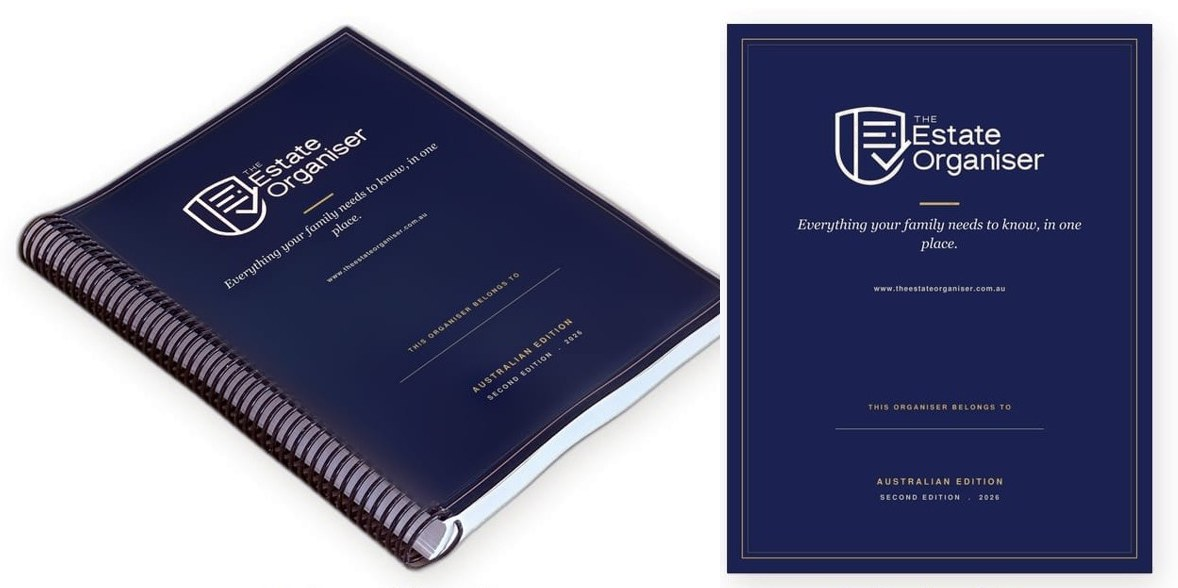
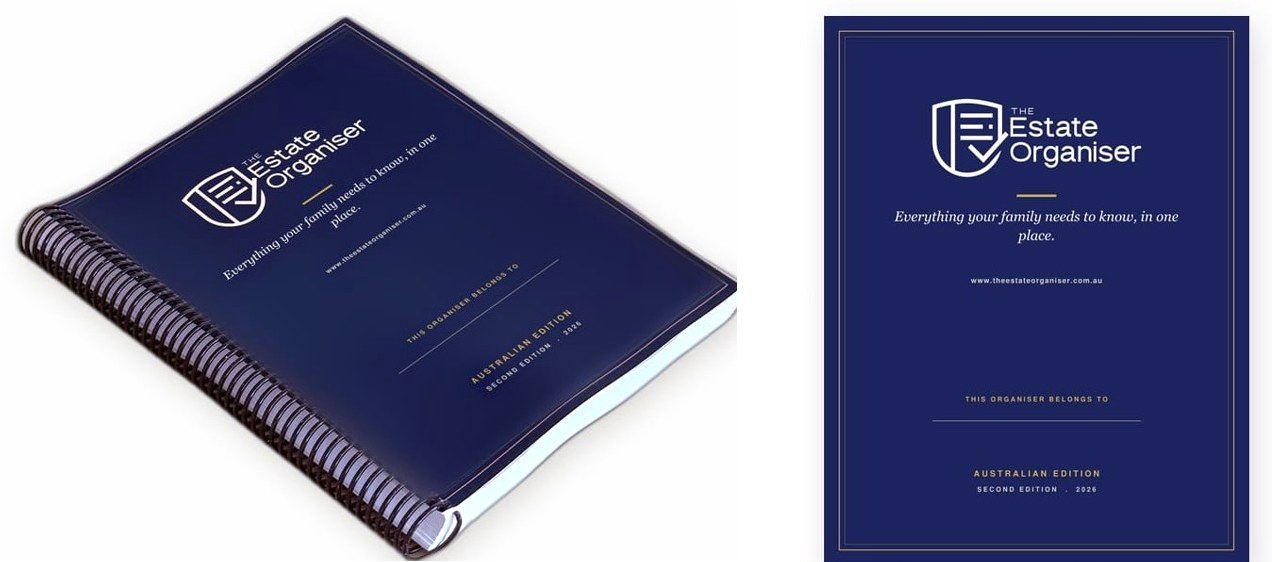
Toolkit: book pictures with a proper gap (no clipped corner); clearer digital and privacy points

diff --git a/toolkit/index.html b/toolkit/index.html
@@ -187,13 +187,13 @@
 <div class="kit-offer" id="kitoffer">
   <p class="kit-eyebrow">Since you're here, one gentle next step</p>
   <h3 class="kit-h">The book that does the whole job</h3>
-  <img class="kit-book" src="/assets/printed-digital-white.jpg" alt="The Estate Organiser, printed book and digital edition" width="1180" height="588" loading="lazy">
+  <img class="kit-book" src="/assets/printed-digital-white.jpg?v=2" alt="The Estate Organiser, printed book and digital edition" width="1272" height="562" loading="lazy">
   <p class="kit-sub">The toolkit helps the person who steps up. The Estate Organiser is the book you fill in now, so they never have to guess: every account, policy, password location and wish, in one place your family can actually find.</p>
   <ul class="kit-list">
     <li>Printed and digital options available.</li>
     <li>Printed: kept safe at home and filled in by hand.</li>
-    <li>Digital: yours to keep, delivered instantly.</li>
-    <li>We never store anything you write in it.</li>
+    <li>Digital: delivered instantly.</li>
+    <li>We never store anything you write in it. It lives on your computer as a PDF file, not on our servers.</li>
   </ul>
   <a class="btn btn-lg kit-go" href="/the-estate-organiser/">See The Estate Organiser</a>
 </div>
@@ -242,7 +242,7 @@
       <hr class="rule">
       <div class="tm-row"><div class="tm-card"><div class="tm-mark">&ldquo;</div><p class="tm-q">All the information in my head right now will not be available to the unlucky sod who has to work out my estate. Your Executor Toolkit can be my way of helping them out.</p><div class="tm-name">Greg</div></div><div class="tm-card"><div class="tm-mark">&ldquo;</div><p class="tm-q">At least with this tool kit a nominated executor won't be floundering along blindly.</p><div class="tm-name">Jennie, Townsville QLD, 71</div></div><div class="tm-card"><div class="tm-mark">&ldquo;</div><p class="tm-q">Practical, with very helpful tips at the beginning of each section. A comprehensive guide to a sensitive but important life issue.</p><div class="tm-name">Pam, 79</div></div><div class="tm-card"><div class="tm-mark">&ldquo;</div><p class="tm-q">Very comprehensive, with lots of useful information. You have considered everything I can think of, and more.</p><div class="tm-name">Louise, Canberra ACT, 65</div></div></div>
 <div style="margin-top:34px;text-align:center"><p style="font-family:Georgia,'Times New Roman',serif;color:#1B2150;font-size:1.4rem;margin-bottom:0">Join them. Start yours today.</p><a class="orgcard" href="/the-estate-organiser/#choose">
-  <img src="/assets/printed-digital-white.jpg" alt="The Estate Organiser, printed book and digital edition" width="1180" height="588" loading="lazy">
+  <img src="/assets/printed-digital-white.jpg?v=2" alt="The Estate Organiser, printed book and digital edition" width="1272" height="562" loading="lazy">
   <div class="oc-body">
     <p class="oc-eye">Ready to get your journey organised?</p>
     <h3 class="oc-h">Get The Estate Organiser</h3>
